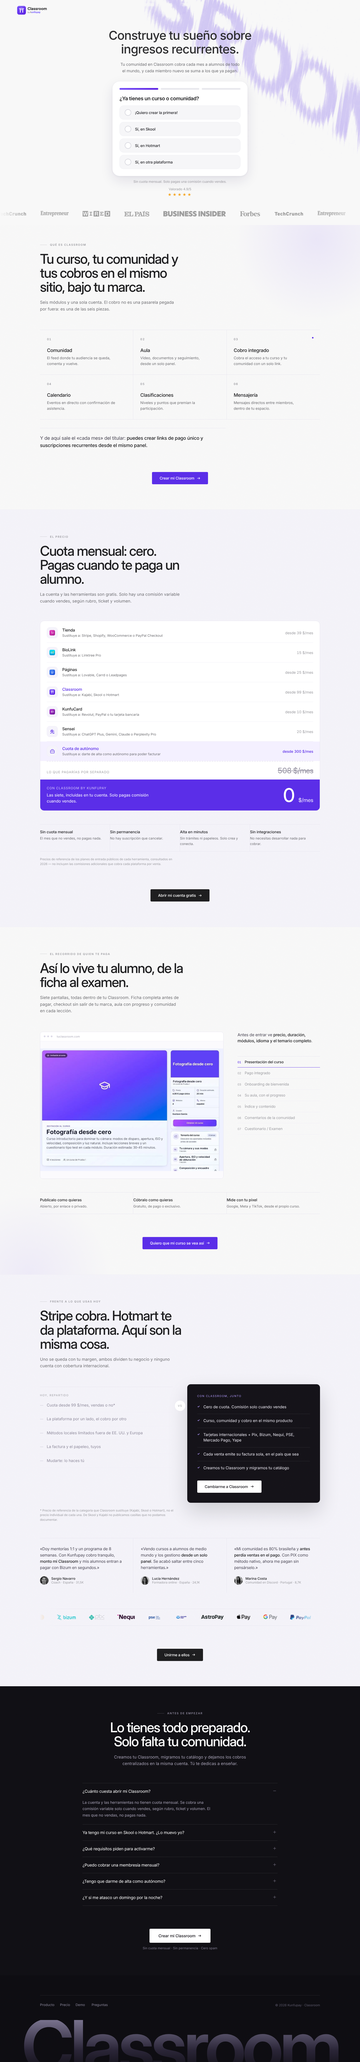
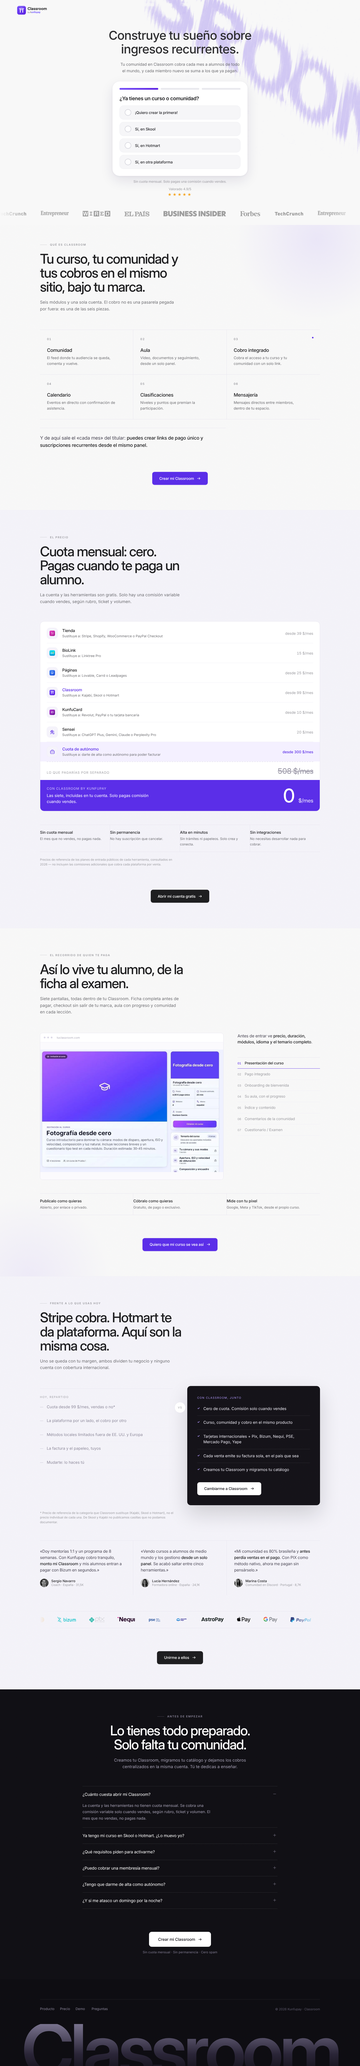
Afina los botones
Mismo lenguaje plano, pero con oficio:

- Altura fija de 52 px (60 en el grande) y radio de 9 px, así todos los
  botones de la página miden y se alinean igual.
- Profundidad sin plástico: un filete de luz de 1 px por dentro del borde
  superior y una sombra neutra de 1 px. Nada de degradados ni halos de color.
- La flecha se va por la derecha y entra otra por la izquierda al pasar el
  ratón, dentro de una ventana de 15 px que recorta el movimiento.
- Una luz suave sigue al cursor dentro del botón (radial al 18 %, al 7 % en
  los blancos), que aparece solo en hover.
- Estados completos: elevación de 1 px al pasar, hundido al pulsar y anillo
  de foco morado con separación para teclado.

El submit del formulario, el del modal y la barra fija de móvil heredan el
mismo sistema y las mismas alturas.

Claude-Session: https://claude.ai/code/session_01BnffaNzGrJ5zZy9uWCipoB

diff --git a/classroom-landing/index.html b/classroom-landing/index.html
@@ -174,7 +174,7 @@ body{
 .field input:user-invalid{border-color:#e2605f;box-shadow:0 0 0 3px rgba(226,96,95,.12)}
 .tel{display:flex;gap:10px}
 .tel select{flex:none;width:122px;padding-right:10px}
-.quiz__submit{width:100%;margin-top:18px}
+.quiz__submit{width:100%;margin-top:18px;min-height:54px}
 .quiz__note{margin-top:12px;font-size:12px;line-height:1.5;color:var(--faint);text-align:center}
 .quiz__back{
   margin-top:16px;padding:0;border:0;background:none;cursor:pointer;
@@ -243,7 +243,7 @@ body{
 .quiz--full .field > label{font-size:13.5px}
 .quiz--full .field input,.quiz--full .field select{height:58px;font-size:16px;background:#fff;border-color:#e4e4ec}
 .quiz--full .tel select{width:132px}
-.quiz--full .quiz__submit{height:60px;margin-top:24px;font-size:16px}
+.quiz--full .quiz__submit{min-height:62px;margin-top:24px;font-size:16px}
 .quiz--full .quiz__note{font-size:13px}
 .quiz--full .quiz__back{margin-top:22px;font-size:14px}
 .quiz--full .quiz__ok .tick{width:58px;height:58px;font-size:27px}
@@ -379,21 +379,37 @@ body{
 .head--center .lead{margin-inline:auto}
 .block--ink .lead{color:#a9a4b8}
 
-/* --- botones planos --- */
+/* --- botones --- */
 .cta{
-  display:inline-flex;align-items:center;gap:10px;padding:17px 30px;border:0;border-radius:4px;
+  --mx:50%; --my:50%;
+  position:relative;overflow:hidden;isolation:isolate;
+  display:inline-flex;align-items:center;justify-content:center;gap:12px;
+  min-height:52px;padding:0 28px;border:0;border-radius:9px;
   background:var(--ink-strong);color:#fff;cursor:pointer;
   font:500 15px/1 'Inter',sans-serif;letter-spacing:-.008em;text-decoration:none;
-  box-shadow:none;transition:background .18s ease,transform .18s ease;
+  box-shadow:inset 0 1px 0 rgba(255,255,255,.14), 0 1px 2px rgba(16,14,22,.18);
+  transition:transform .2s cubic-bezier(.22,.8,.2,1), box-shadow .2s ease, background .2s ease;
 }
-.cta:hover{background:#000;transform:translateY(-1px)}
-.cta svg{width:14px;height:14px;transition:transform .22s cubic-bezier(.22,.8,.2,1)}
-.cta:hover svg{transform:translateX(3px)}
-.cta--acc{background:var(--acc)}
-.cta--acc:hover{background:#4a22cc}
-.cta--light{background:#fff;color:#121016}
-.cta--light:hover{background:#f1eff7}
-.cta--xl{padding:20px 36px;font-size:16px}
+.cta::before{  /* luz suave que sigue al cursor, nada de brillo de plástico */
+  content:"";position:absolute;inset:0;z-index:-1;opacity:0;transition:opacity .35s ease;
+  background:radial-gradient(130px circle at var(--mx) var(--my), rgba(255,255,255,.18), transparent 62%)}
+.cta:hover{transform:translateY(-1px);box-shadow:inset 0 1px 0 rgba(255,255,255,.16), 0 6px 18px rgba(16,14,22,.16)}
+.cta:hover::before{opacity:1}
+.cta:active{transform:translateY(0) scale(.994);box-shadow:inset 0 1px 0 rgba(255,255,255,.1), 0 1px 2px rgba(16,14,22,.2)}
+.cta:focus-visible{outline:2px solid var(--acc);outline-offset:3px}
+.cta--acc{background:var(--acc);box-shadow:inset 0 1px 0 rgba(255,255,255,.22), 0 1px 2px rgba(74,34,204,.28)}
+.cta--acc:hover{background:#5527e0;box-shadow:inset 0 1px 0 rgba(255,255,255,.24), 0 8px 22px rgba(74,34,204,.22)}
+.cta--light{background:#fff;color:#121016;box-shadow:inset 0 0 0 1px rgba(18,16,22,.1), 0 1px 2px rgba(16,14,22,.08)}
+.cta--light::before{background:radial-gradient(130px circle at var(--mx) var(--my), rgba(18,16,22,.07), transparent 62%)}
+.cta--light:hover{background:#fff;box-shadow:inset 0 0 0 1px rgba(18,16,22,.14), 0 8px 22px rgba(16,14,22,.10)}
+.cta--xl{min-height:60px;padding:0 36px;font-size:16px;border-radius:11px}
+/* la flecha se va y entra otra por la izquierda */
+.cta__ic{position:relative;display:inline-block;width:15px;height:15px;overflow:hidden;flex:none}
+.cta__ic svg{position:absolute;inset:0;width:15px;height:15px;
+  transition:transform .42s cubic-bezier(.65,0,.35,1)}
+.cta__ic svg + svg{transform:translateX(-140%)}
+.cta:hover .cta__ic svg{transform:translateX(140%)}
+.cta:hover .cta__ic svg + svg{transform:translateX(0)}
 .cta-wrap{margin-top:clamp(32px,4vw,52px)}
 .cta-wrap--center{text-align:center}
 .cta-nota{margin-top:14px;font-size:12.5px;letter-spacing:.01em;color:var(--faint)}
@@ -569,7 +585,7 @@ html.js .kin.is-in .w{opacity:1;transform:none}
 .sticky{position:fixed;left:0;right:0;bottom:0;z-index:40;display:none;
   padding:10px 16px calc(10px + env(safe-area-inset-bottom));
   background:rgba(248,248,248,.95);backdrop-filter:blur(10px);border-top:1px solid var(--line)}
-.sticky .cta{width:100%;justify-content:center;margin:0;padding:16px}
+.sticky .cta{width:100%;justify-content:center;margin:0;min-height:54px}
 
 @media (max-width:980px){
   .player{grid-template-columns:1fr}
@@ -1382,6 +1398,25 @@ html.js .kin.is-in .w{opacity:1;transform:none}
     visible = es[0].isIntersecting;
     if (visible && !encima) arranca(); else para();
   }, { threshold: 0.3 }).observe(player);
+})();
+
+/* ---------- botones: flecha doble y luz que sigue al cursor ---------- */
+(function () {
+  document.querySelectorAll('.cta').forEach(function (b) {
+    var svg = b.querySelector('svg');
+    if (svg && !b.querySelector('.cta__ic')) {
+      var caja = document.createElement('span');
+      caja.className = 'cta__ic';
+      svg.replaceWith(caja);
+      caja.appendChild(svg);
+      caja.appendChild(svg.cloneNode(true));
+    }
+    b.addEventListener('pointermove', function (e) {
+      var r = b.getBoundingClientRect();
+      b.style.setProperty('--mx', (e.clientX - r.left) + 'px');
+      b.style.setProperty('--my', (e.clientY - r.top) + 'px');
+    });
+  });
 })();
 
 </script>
